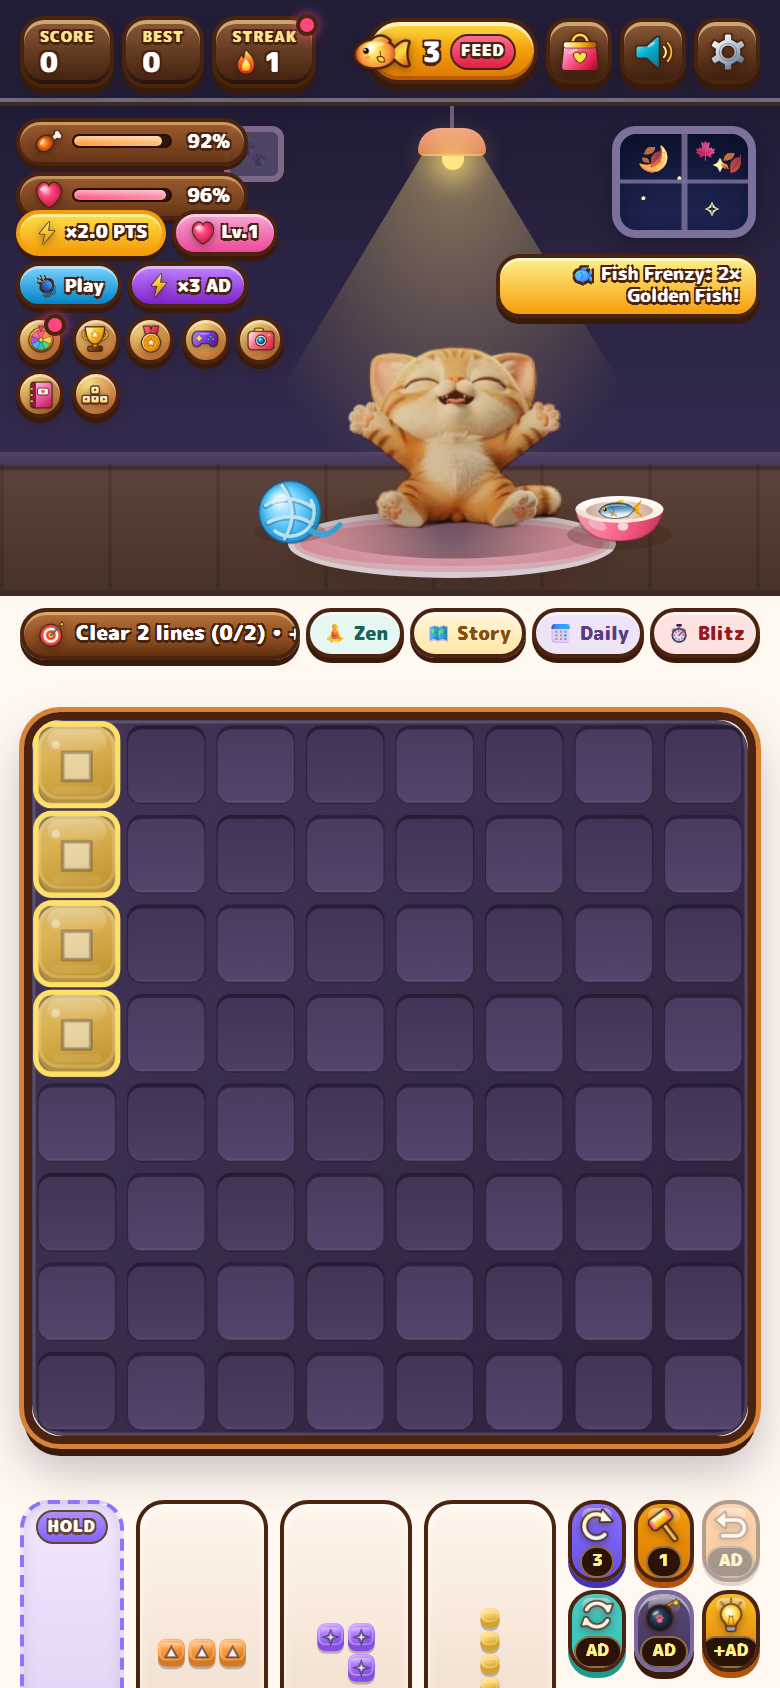
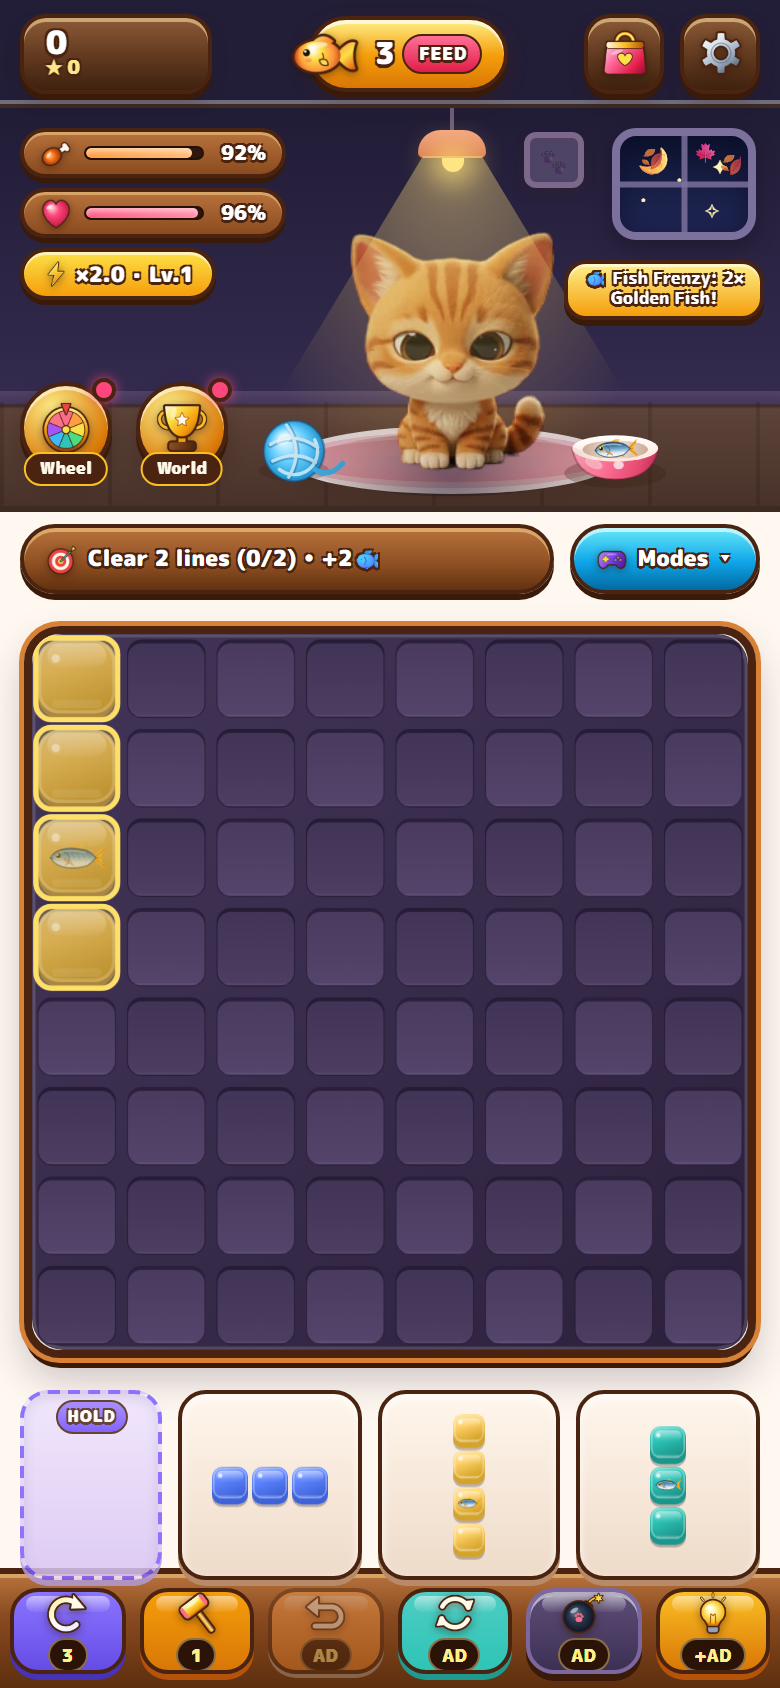
Release v1.2.0: Updated metadata, changelog & Day/Night screenshots

diff --git a/CHANGELOG.md b/CHANGELOG.md
@@ -1,5 +1,14 @@
 # Changelog — Mochi Pop!
 
+## [1.2.0] - 2026-11-21
+### Added & Improved
+- **Clean & Spacious Cozy Honey-Wood 3D Layout**: Decluttered the main screen so Mochi's room, pet meters, puzzle board, and bottom piece tray breathe comfortably without cramped buttons or overflowing labels:
+  - Compact 4-item `.top-hud` with combined `Score + Best` wooden tablet pill, oversized bouncy emerald **Feed** pill with overflowing 3D salmon (`#btnFeed`), **Wardrobe**, and **Settings**.
+  - Moved `.wall-frame` away from `#hungerBar`/`#moodBar`, unified the status pill (`×Mult · Lv.N`), and anchored just two crisp golden 3D room medallions on the bottom-left: **Lucky Wheel** (`🎡`) and **Mochi Hub** (`🧭`).
+  - Replaced crowded vertical stacks beside the board with a clean 2-item **challenge bar** (`Craving + Modes...`) and a dedicated full-width **Honey-Oak Power Dock** below the tray with all 6 power-up buttons (**Rotate, Hammer, Undo, Refresh, Bomb, Hint**) at `≥ 48px` width.
+  - Added **Mochi Hub** (`#mochiHubModal`) organizing **Daily Check-In, Purr League, Trophy Room, Mini-Games, Photo Studio, Sticker Album, Sound Mute/Unmute, 2× Overdrive, Toy Ball, and Keyboard Shortcuts** in a spacious 2×4 wooden grid, plus a dedicated **Game Modes** (`#modesModal`) selector for **Classic, Zen, Adventure, Daily, and 90s Blitz**.
+- **Updated Day & Night Screenshots**: Refreshed `assets/screenshot-day.png` and `assets/screenshot-night.png` to showcase the clean `v1.2.0` UI.
+
 ## [1.1.0] - 2026-11-21
 ### Added & Improved
 - **🎨 Cozy Honey-Wood & Glossy Candy Bouncy Cartoon 3D UI (`styles.css`, `index.html`, `main.js`):**

diff --git a/README.md b/README.md
@@ -1,4 +1,4 @@
-# 🐱 Mochi Pop! — Cozy Pet & Block Puzzle (`v1.1.0`)
+# 🐱 Mochi Pop! — Cozy Pet & Block Puzzle (`v1.2.0`)
 
 > **Private Repository** — Closed Source / All Rights Reserved (`support@jemangr.app`)
 
@@ -9,6 +9,17 @@
   &nbsp;&nbsp;&nbsp;
   <img src="assets/screenshot-night.png" alt="Mochi Pop! Night Lamp & Fairy Lights" width="300" />
 </p>
+
+---
+
+## ✨ What's New in v1.2.0
+
+- **🪵 Clean & Spacious Honey-Wood 3D Layout**:
+  - **4-Item Top HUD**: Combined `Score + Best` tablet, bouncy oversized **Feed** pill with overflowing 3D salmon, **Wardrobe**, and **Settings** — zero cramped labels or overflowing text.
+  - **Breathe-Easy Pet Stage**: Clear `Hunger` & `Mood` meters, unified `×Mult · Lv.N` badge, and just two crisp golden medallions (**Lucky Wheel** & **Mochi Hub**).
+  - **Edge-to-Edge Honey-Oak Power Dock**: All 6 power-ups (**Rotate, Hammer, Undo, Refresh, Bomb, Hint**) now sit in a dedicated spacious bottom dock (`≥ 48px` buttons) instead of squishing the piece tray.
+  - **🧭 Mochi Hub & 🎮 Game Modes Modals**: Clean 2×4 wooden launcher for **Daily Check-In, Purr League, Trophy Room, Mini-Games, Photo Studio, Sticker Album, Sound Mute, 2× Overdrive, Toy Ball & Shortcuts**, plus a dedicated switcher for **Classic, Zen, Adventure, Daily & 90s Blitz**.
+- **📸 Fresh Screenshots**: Updated Day & Night showcase captures for `v1.2.0`.
 
 ---
 
